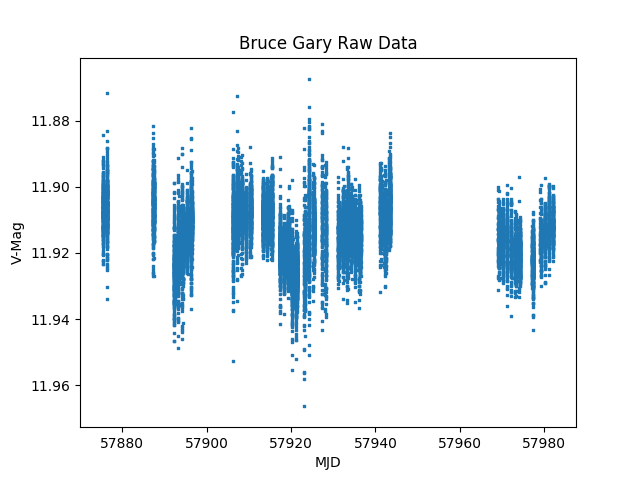
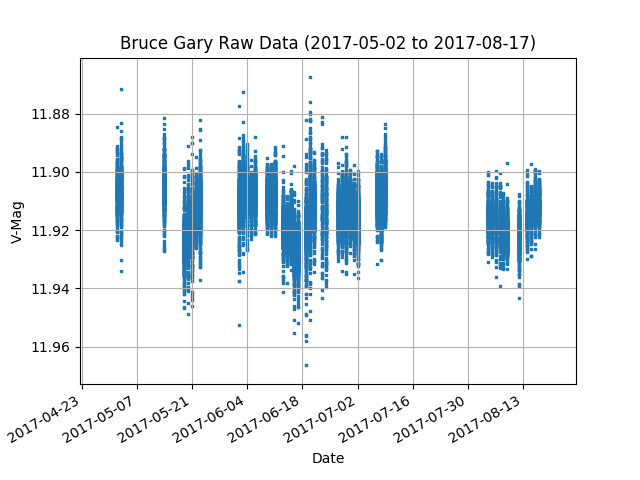
added more formatting to plot

diff --git a/combine_data.py b/combine_data.py
@@ -1,6 +1,9 @@
 import csv
 import glob
 import matplotlib.pyplot as plt
+import matplotlib.ticker as tkr
+import matplotlib.dates as mdates
+import datetime
 
 
 def main():
@@ -10,21 +13,35 @@ def main():
     print('#observations:',len(combined))
     combined = [['MJD','V-mag','SE','air mass']] + combined
     write_combined_csv(combined)
-    bin_and_plot(combined)
+    raw_plot(combined)
 
-def bin_and_plot(combined):
+def raw_plot(combined):
     x = []
     y = []
     for i in range(1,len(combined)):
         x.append(float(combined[i][0]))
         y.append(float(combined[i][1]))
-    plt.xlabel("MJD")
+    x = mjddates_to_gregoriandates(x)
+    plt.xlabel("Date")
     plt.ylabel("V-Mag")
-    plt.title("Bruce Gary Raw Data")
+    start_date = x[0]
+    end_date = x[len(x)-1]
+    title = "Bruce Gary Raw Data (" + str(start_date) + " to " + str(end_date) + ")"
+    plt.title(title)
     plt.gca().invert_yaxis()
+    plt.gcf().autofmt_xdate()
+    plt.grid()
     plt.scatter(x,y,s=1,marker='s')
     plt.savefig("SavedPlots/scatter.png")
     plt.show()
+
+def mjddates_to_gregoriandates(mjd):
+    dates = [mjd_to_gregorian(mjd_val) for mjd_val in mjd]
+    return dates
+
+def mjd_to_gregorian(mjd_val):
+    start_date = datetime.date(1858, 11, 17)
+    return start_date + datetime.timedelta(mjd_val)
 
 def clean_bad_data(combined):
     clean = []
